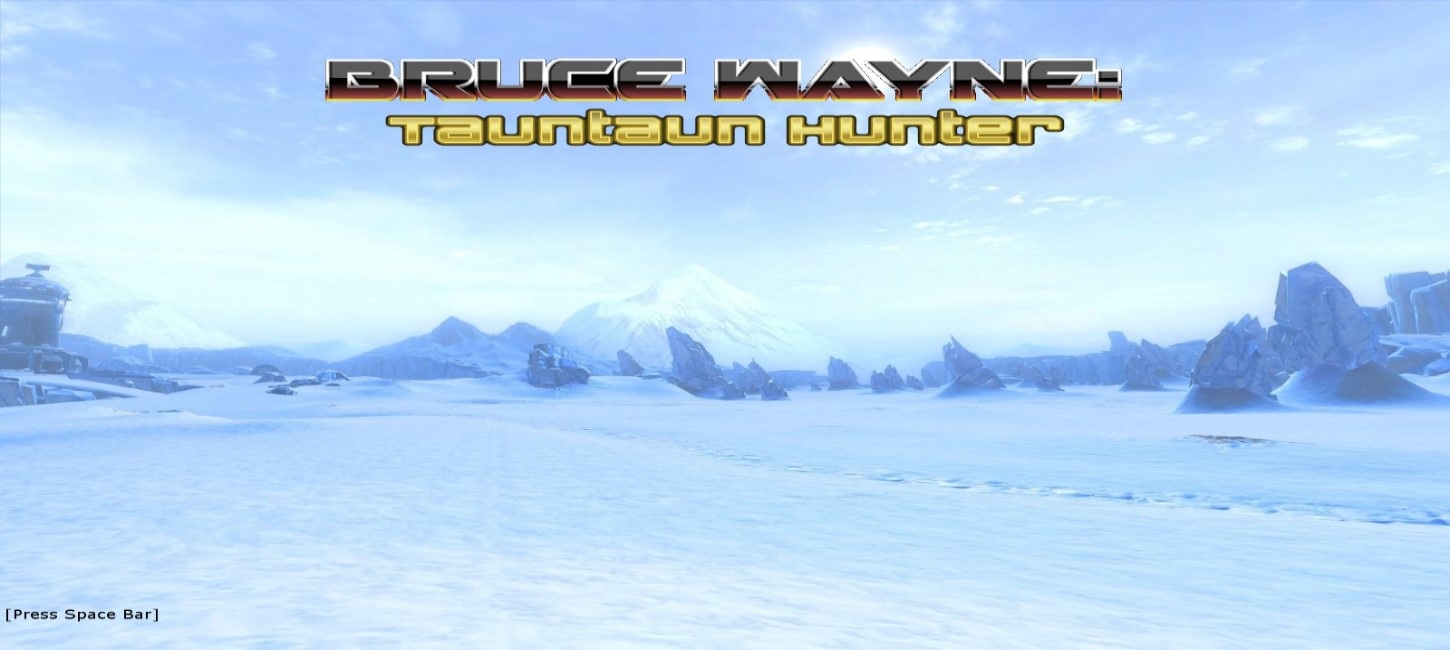
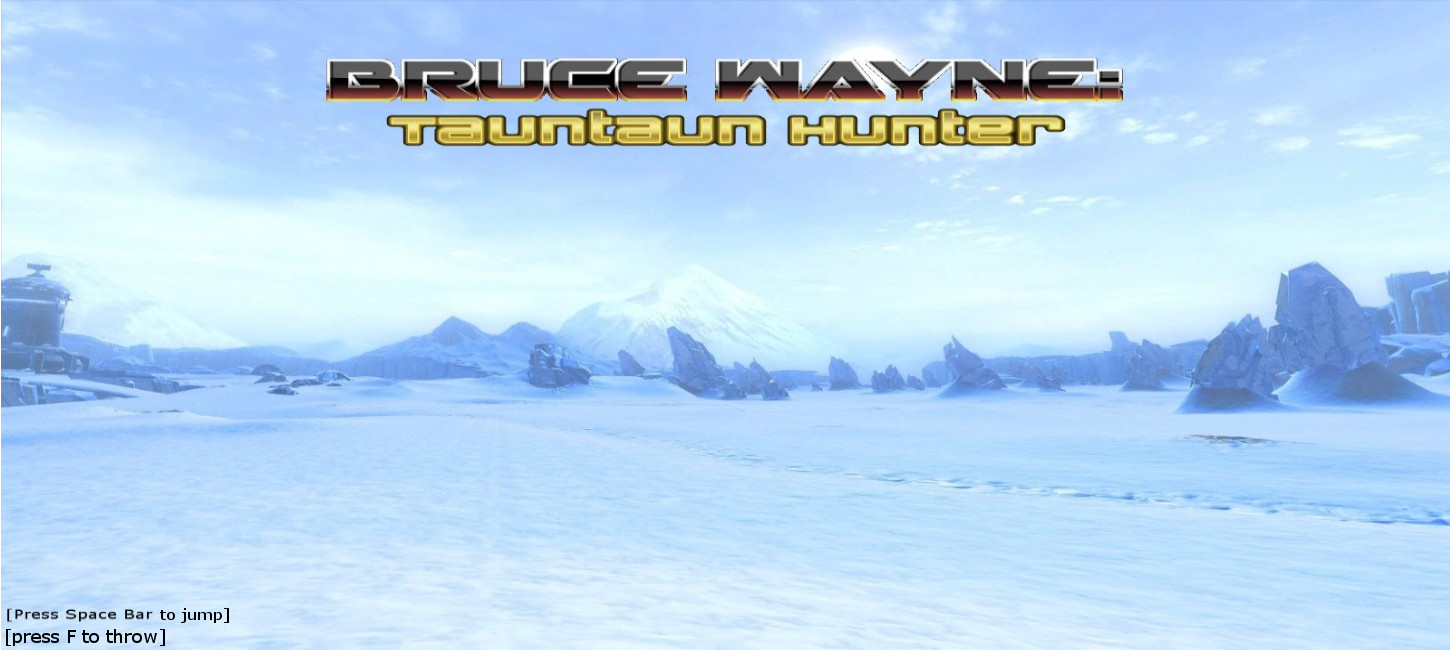
added jumping animation

Changed region(s): [[0.2172, 0.0923, 0.7448, 0.2462], [0.0, 0.9231, 0.1552, 1.0], [0.7448, 0.0923, 0.7759, 0.1538]]

diff --git a/myMain.js b/myMain.js
@@ -176,9 +176,14 @@ function Batman(game) { // batman must create the baterang
         new Animation(AM.getAsset("./img/BF_Batman.png"), 0, 480, 57.53, 100, 7, 0.15, 7, true, false, 2.5);
     this.throwAnimation =
         new Animation(AM.getAsset("./img/BF_Batman.png"), 960, 1476, 75, 90, 3, 0.075, 3, false, false, 2.5);
+    this.jumpAnimation =
+        new Animation(AM.getAsset("./img/BF_Batman.png"), 0, 600, 65,100, 8, 0.075, 8, false, false, 2.5);
+
     this.throwSound = new Audio("throw_sound.wav");
     this.speed = 200;
+    this.jumping = false;
     this.throwing = false;
+    this.ground = 360;
     this.ctx = game.ctx;
     Entity.call(this, game, 0, 360, false);
 }
@@ -188,9 +193,30 @@ Batman.prototype.constructor = Batman;
 
 Batman.prototype.update = function() {
     if (this.game.space) {
+        this.jumping = true;
+    } else if (this.game.fKey) {
         this.throwing = true;
     }
-    if (this.throwing) {
+
+// ***** Jumping *****
+    if (this.jumping) {
+        this.speed = 200;
+        if (this.jumpAnimation.isDone()) {
+            this.jumpAnimation.elapsedTime = 0;
+            this.jumping = false;
+        }
+        var jumpDistance = this.jumpAnimation.elapsedTime / this.jumpAnimation.totalTime;
+        var totalHeight = 200;
+
+        if (jumpDistance > 0.5) {
+            jumpDistance = 1-jumpDistance;
+        }
+        var height = totalHeight * (-4 * (jumpDistance * jumpDistance - jumpDistance));
+        this.y = this.ground - height;
+    }
+
+// ***** Throwing *****
+     else if (this.throwing) {
         this.throwSound.play();
         if (this.throwAnimation.elapsedTime + this.game.clockTick >= this.throwAnimation.totalTime) {
             this.game.addEntity(new Baterang(this.game, AM.getAsset("./img/BF_Batman.png")));
@@ -201,11 +227,11 @@ Batman.prototype.update = function() {
         } else {
             this.speed = 0;
         }
-    } else {
+    }
         this.x += this.game.clockTick * this.speed;
         batX = this.x;
         batY = this.y;
-    }
+    
     if (this.x > 1700) {  // run off right side and return to lefts
         this.x = -230;
     }
@@ -214,8 +240,9 @@ Batman.prototype.update = function() {
 
 
 Batman.prototype.draw = function() {  // only put draw stuff in here
-
-    if (this.throwing) {
+    if (this.jumping) {
+        this.jumpAnimation.drawFrame(this.game.clockTick, this.ctx, this.x, this.y);
+    } else if (this.throwing) {
         this.throwAnimation.drawFrame(this.game.clockTick, this.ctx, this.x, this.y);
     } else {
         this.Animation.drawFrame(this.game.clockTick, this.ctx, this.x, this.y);

diff --git a/gameengine.js b/gameengine.js
@@ -63,6 +63,7 @@ GameEngine.prototype.startInput = function () {
 
     this.ctx.canvas.addEventListener("keydown", function (e) {
         if (String.fromCharCode(e.which) === ' ') that.space = true;
+        if (String.fromCharCode(e.which) === 'F') that.fKey = true;
 //        console.log(e);
         e.preventDefault();
     }, false);
@@ -107,6 +108,7 @@ GameEngine.prototype.loop = function () {
     this.update();
     this.draw();
     this.space = null;
+    this.fKey = null;
 }
 
 function Entity(game, x, y, canKill) {
